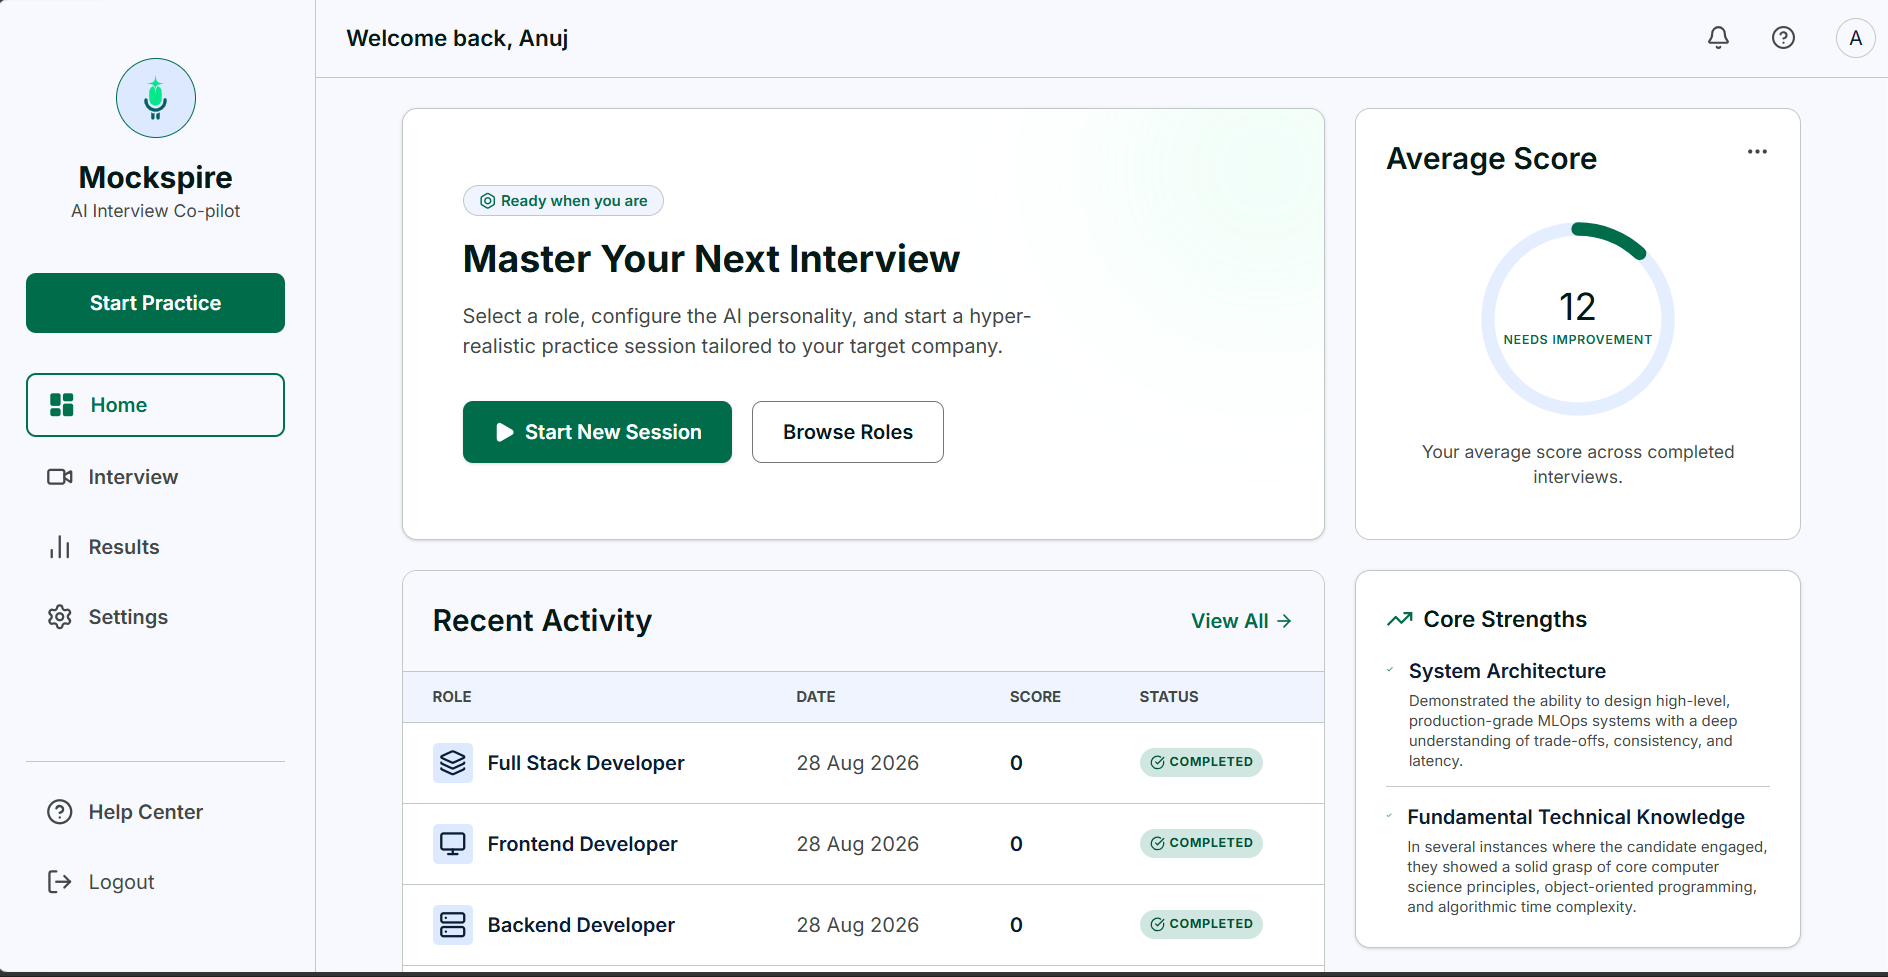
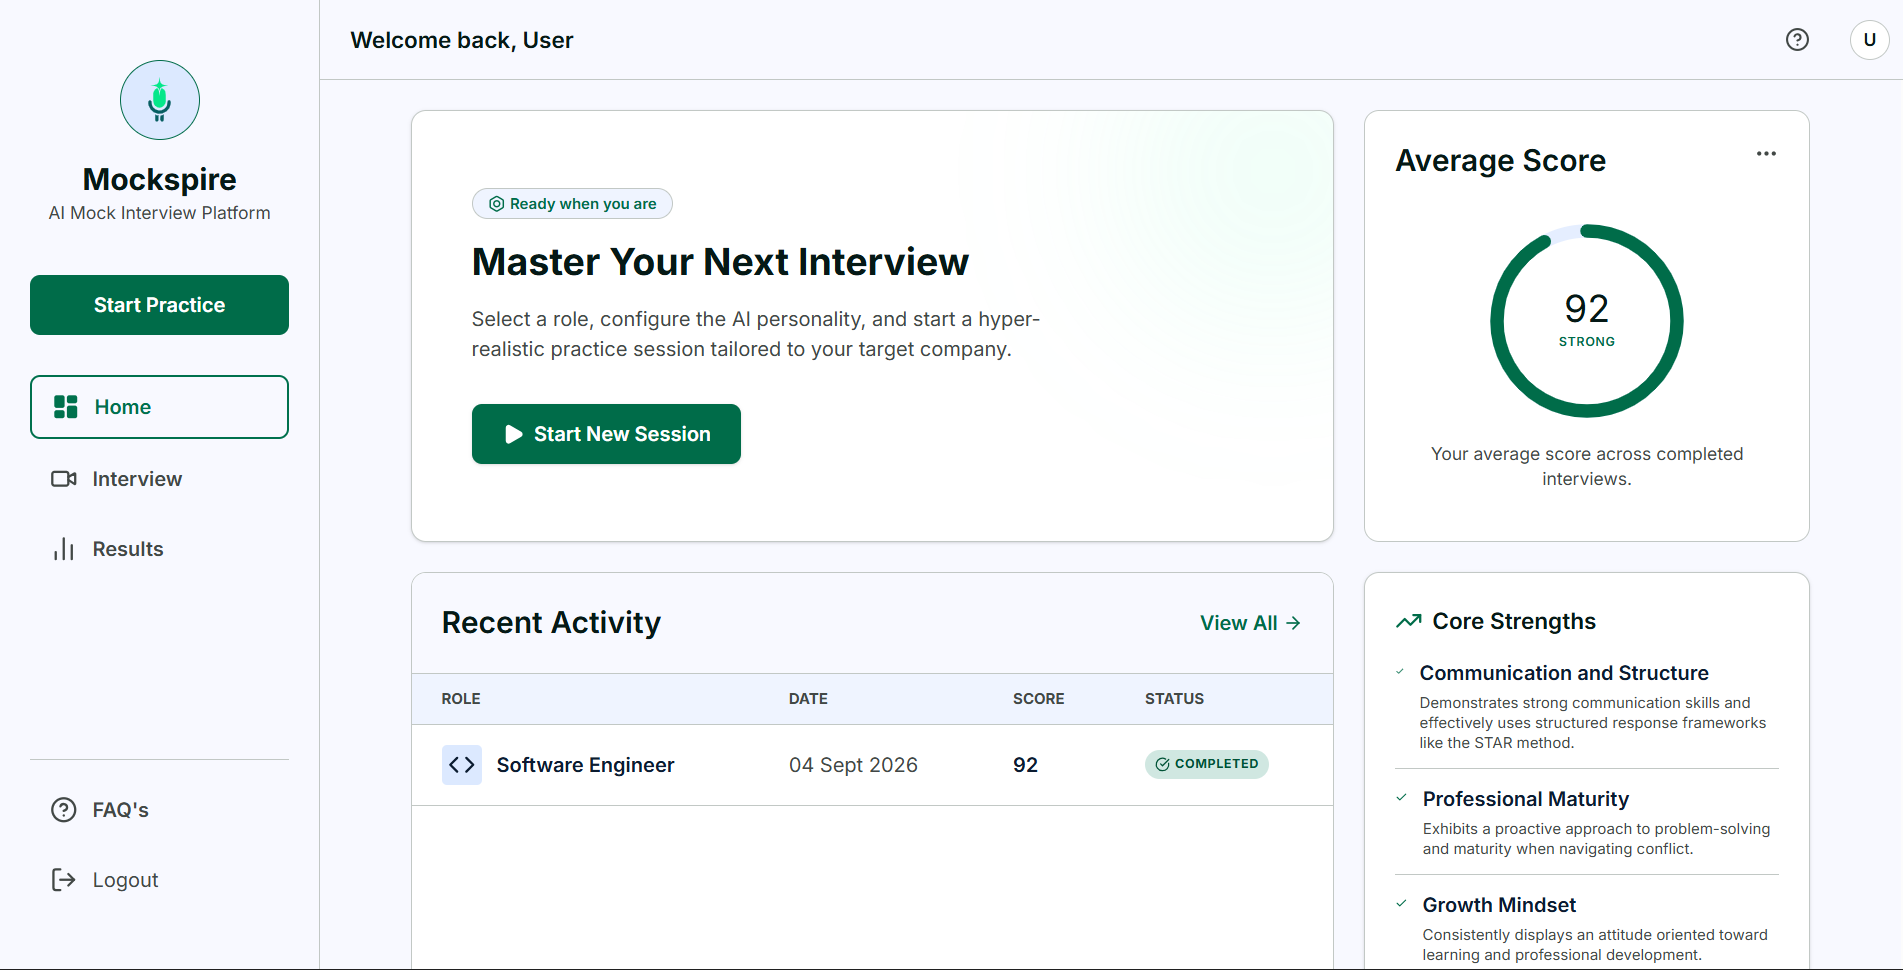
docs: update README with project documentation

diff --git a/README.md b/README.md
@@ -6,6 +6,16 @@ Mockspire is an AI-powered interview preparation platform that simulates realist
 
 ---
 
+# Screenshots
+
+![Mockspire Landing Page](client/src/assets/Landing.png)
+
+![Mockspire Dashboard](client/src/assets/MockspireDashboard.png)
+
+
+---
+
+
 ## Table of Contents
 
 - [Features](#features)
@@ -35,6 +45,9 @@ Generate personalized interview questions based on:
 
 ### Realistic Interview Practice
 Practice interviews in a structured environment designed to simulate a real interview experience.
+
+### Speech-to-Text
+Answer interview questions using your voice with browser-based speech recognition, with your spoken responses automatically converted into text.
 
 ### Performance Analysis
 Get detailed feedback after completing an interview, including performance scores and insights.
@@ -71,6 +84,7 @@ Mockspire is designed to work seamlessly across:
 - Tailwind CSS
 - Lucide React
 - Axios
+- Web Speech API
 
 **Backend**
 - Node.js
@@ -191,13 +205,13 @@ npm install
 
 ## Environment Variables
 
-Create a `.env` file inside the `frontend` directory:
+Create a `.env` file inside the `client` directory:
 
 ```env
 VITE_API_URL=http://localhost:5000
 ```
 
-Create a `.env` file inside the `backend` directory:
+Create a `.env` file inside the `server` directory:
 
 ```env
 PORT=5000
@@ -258,7 +272,6 @@ Mockspire is designed for people preparing for:
 
 ## Future Improvements
 
-Planned improvements may include:
 - Voice-based interviews
 - Speech analysis
 - Video interview practice
@@ -273,14 +286,13 @@ Planned improvements may include:
 
 Contributions are welcome.
 
-1. Fork the repository
+1. Fork the repository on Github
+2. Create a branch:
+
    ```bash
-   git fork https://github.com/anujsharma8d/mockspire
+   git checkout -b feat/your-feature
    ```
-2. Create a branch
-   ```bash
-   git checkout -b feature/your-feature
-   ```
+   
 3. Commit your changes
    ```bash
    git add .
@@ -288,7 +300,7 @@ Contributions are welcome.
    ```
 4. Push the branch
    ```bash
-   git push origin feature/your-feature
+   git push origin feat/your-feature
    ```
 5. Open a Pull Request
 
